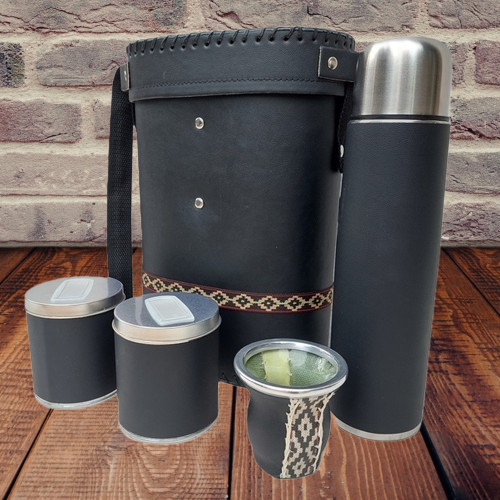
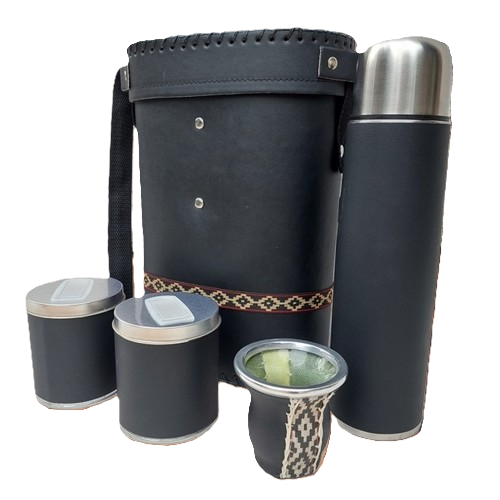
Fix de imgs
Se procedió a sacarle el fondo para que se pueda visualizar el efecto de color. También se renombraron imágenes.

diff --git a/assets/js/personales/initialData.js b/assets/js/personales/initialData.js
@@ -49,7 +49,7 @@ function getProductos(){
         id:6,
         nombre:'Mate Pampa',
         precio:'$8.060,00',
-        rutaImg:'mate1.jpeg',
+        rutaImg:'mate1.png',
         descripcion:'Prueba primer mate',
         categoria:"Mate",
         activo:1
@@ -58,7 +58,7 @@ function getProductos(){
         id:7,
      nombre:'Mate Uruguayo Camionero',
      precio:'$10.415,00',
-     rutaImg:'mate2.jpeg',
+     rutaImg:'mate2.png',
      descripcion:'prueba segundo mate',
      categoria:"Mate",
      activo:1
@@ -94,7 +94,7 @@ function getProductos(){
         id:11,
      nombre:'Little Mate de Colores',
      precio:'$2.500,00',
-     rutaImg:'Mate3.png',
+     rutaImg:'mate3.png',
      descripcion:'Mates pequeños, colores varios',
      categoria:"Mate",
      activo:1
